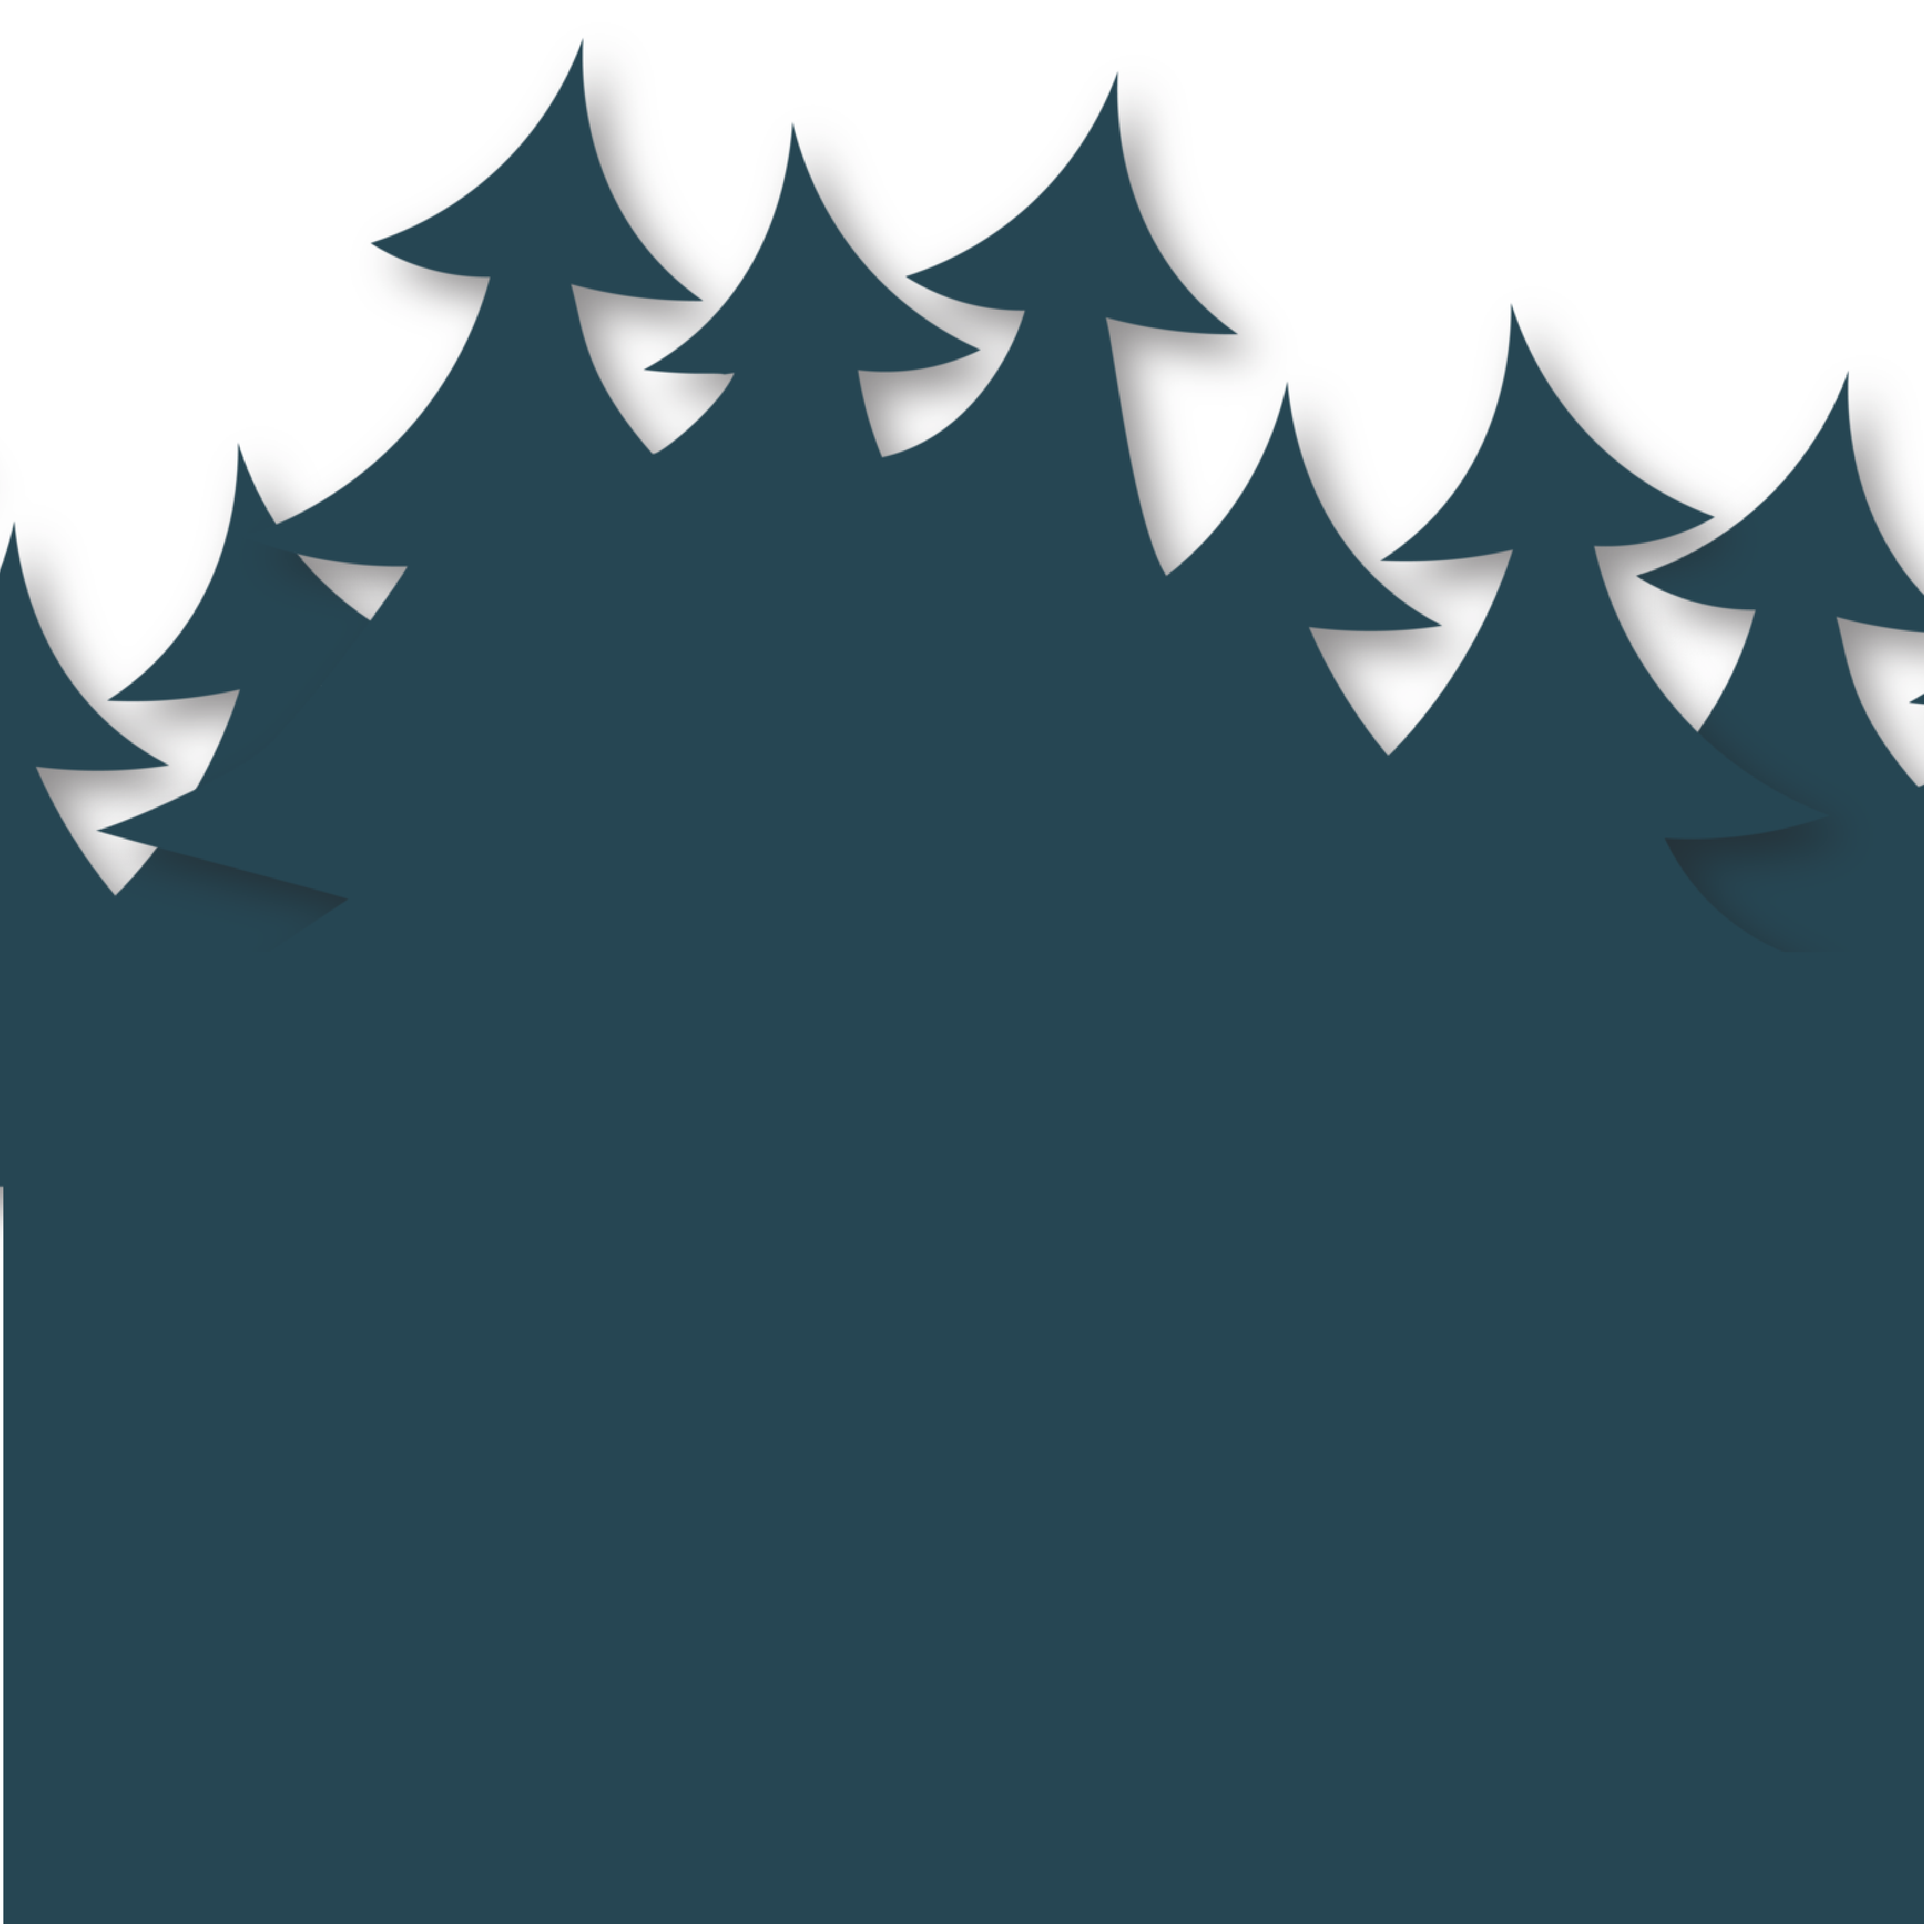
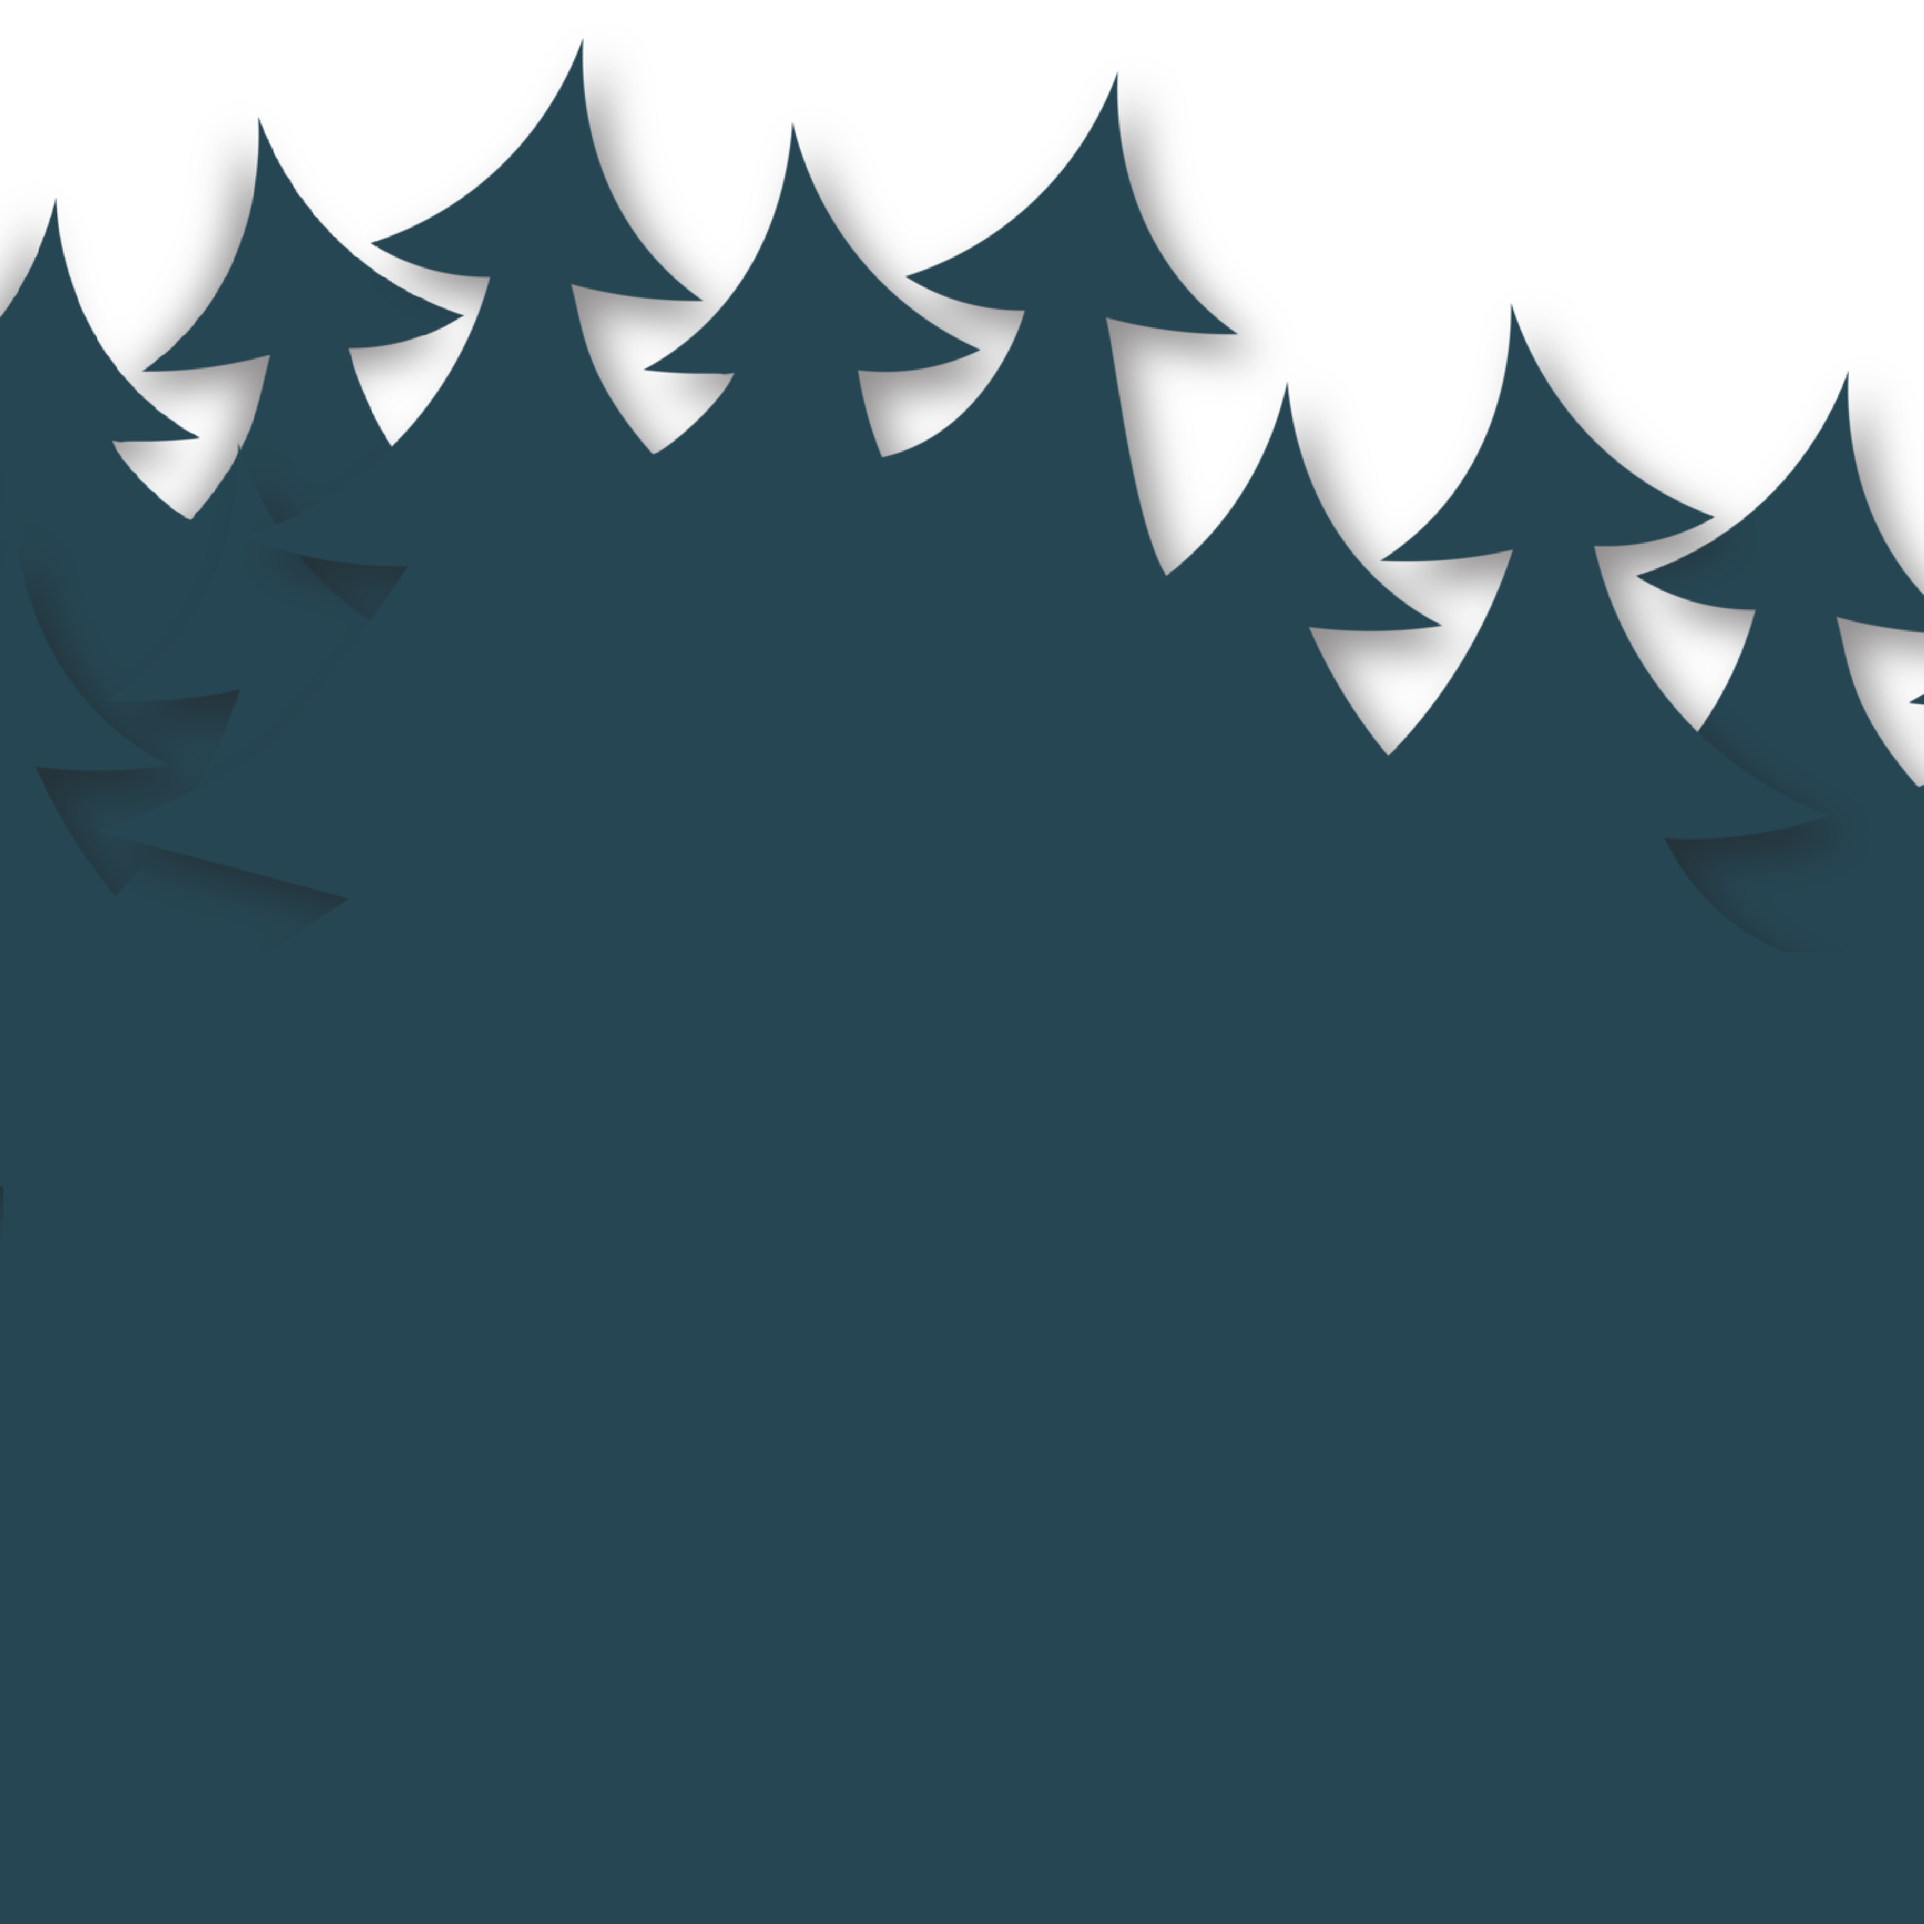
Fixed mobile, a little more responsive, trees

Changed region(s): [[0.0, 0.062, 0.248, 0.465]]

diff --git a/helloworld.css b/helloworld.css
@@ -361,7 +361,7 @@ p {
 #about {
   width: 100%;
   position: absolute;
-  margin-top: -115vh;
+  margin-top: -100vh;
   background-image: url("trees.png");
   background-size: 100%;
   background-repeat: no-repeat;
@@ -779,7 +779,6 @@ h4 {
     display: block;
   }
   #contact > div .block {
-    width: 50%;
     margin-left: 0;
     margin-top: 5vh;
   }
@@ -838,6 +837,7 @@ h4 {
 
   #rest {
     z-index: 3;
+    margin-top: 75vh;
   }
 
   #flash, #flash2, #flash3 {
@@ -946,6 +946,10 @@ h4 {
     flex-wrap: nowrap;
     margin: auto;
   }
+  .mobilestack .buttons {
+    display: flex;
+    width: 95%;
+  }
 
   #titlegroup {
     text-align: center;
@@ -988,7 +992,7 @@ h4 {
   }
 
   #about {
-    margin-top: -600px;
+    margin-top: -500px;
   }
   #about #hill2 {
     bottom: 0;
@@ -1093,7 +1097,7 @@ h4 {
   }
 
   #form .button {
-    width: 20%;
+    width: 100%;
     height: 75px;
     font-size: 14pt;
     margin: auto;

diff --git a/helloworld.scss b/helloworld.scss
@@ -809,7 +809,6 @@ h4 {
     > div {
       display: block;
       .block {
-        width: 50%;
         margin-left: 0;
         margin-top: 5vh;
       }
@@ -875,7 +874,7 @@ h4 {
 
   #rest {
     z-index: 3;
-
+    margin-top: 75vh;
   }
 
   #flash, #flash2, #flash3 {
@@ -983,6 +982,10 @@ h4 {
     display: block;
     flex-wrap: nowrap;
     margin: auto;
+    .buttons {
+      display: flex;
+      width: 95%;
+    }
   }
 
   #titlegroup {
@@ -1026,7 +1029,7 @@ h4 {
     display: none;
   }
   #about {
-    margin-top: -600px;
+    margin-top: -500px;
     #hill2 {
       bottom: 0;
     }
@@ -1133,7 +1136,7 @@ h4 {
   }
 
   #form .button {
-    width: 20%;
+    width: 100%;
     height: 75px;
     font-size: 14pt;
     margin: auto;

diff --git a/index.html b/index.html
@@ -98,7 +98,7 @@
           <img style="width: 100%" src="sun.svg" alt="sun">
         </div>
         <div id="titlegroup">
-          <img src="cuhackitbug.svg" alt="CUhackit logo">
+          <img src="cuhackitbug.png" alt="CUhackit logo">
           <div class="mobilestack">
             <h3>February 6-7, 2021</h3>
             <div class="buttons">
